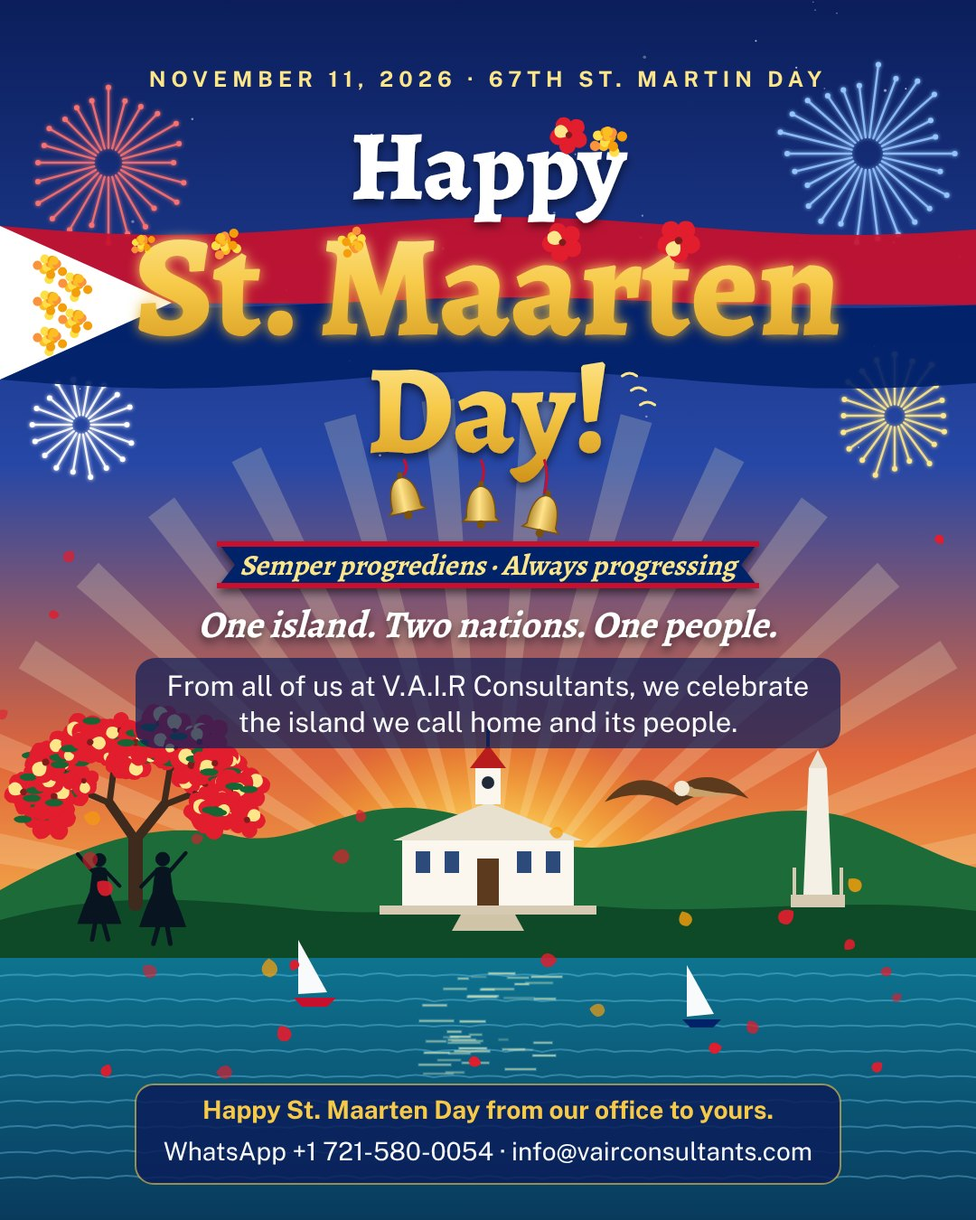
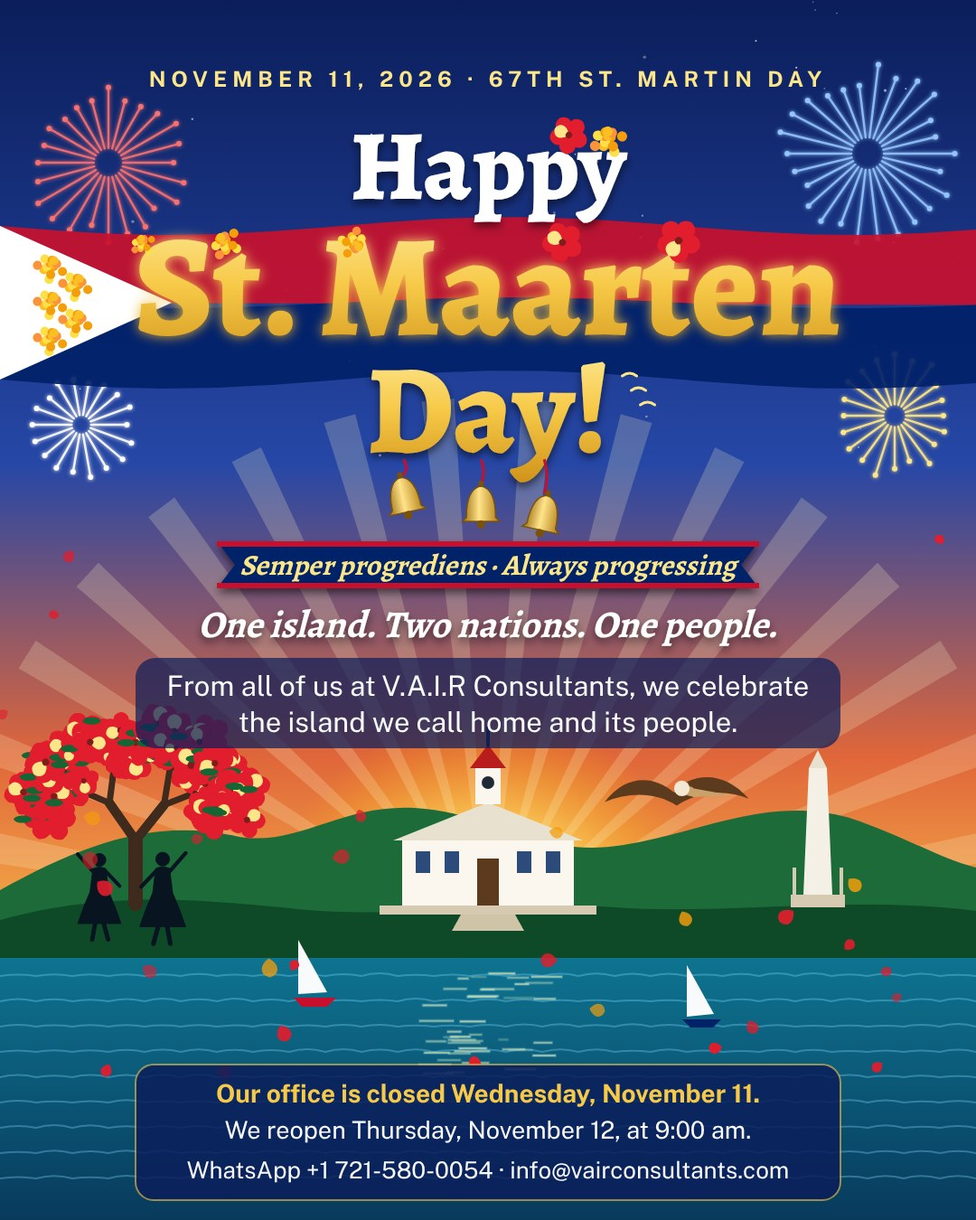
VAIR Website | St. Maarten Day (Nov 11): office closed notice - poster plaque and post text (reopens Thursday Nov 12, 9:00 am)
Claude-Session: https://claude.ai/code/session_01P9czSjwZrzrphQHwvYxGw8

Changed region(s): [[0.1222, 0.8711, 0.8861, 0.9956]]

diff --git a/about/index.html b/about/index.html
@@ -1001,8 +1001,8 @@ const UPLOAD_LINK = "";
 const POSTS = [
   { date:"2026-11-09", tag:"Tip", title:"Got a reminder from the Receiver? You have 14 days",
     text:"When an income tax, profit tax or land tax assessment is not paid by its due date, the Receiver sends a reminder (aanmaning). The reminder gives you fourteen days to pay. If you do not pay or agree a payment arrangement in that time, the Receiver moves to forced collection with a writ (dwangschrift), and the costs of collection are added to what you owe.\n\nOnce the last installment of an assessment has fallen due, interest of one half percent is charged for every month that has started. When you pay, the money goes first to the collection costs, and only then to the oldest open assessment.\n\nFiling an objection does not stop the payment. The tax is still due while the objection is being decided.\n\nIf special circumstances beyond your control mean you cannot pay on time, you can ask the Receiver for a deferral or easier payment terms. An arrangement is given in writing. For profit tax, a deferral is never longer than four months.\n\nReceived a reminder or an assessment you do not agree with? Contact our office at +1 721-580-0054 or info@vairconsultants.com." },
-  { date:"2026-11-11", tag:"Office news", title:"Happy St. Maarten Day from VAIR Consultants", image:"/img/st-maarten-day-2026.jpg",
-    text:"Happy St. Maarten Day! Semper progrediens, always progressing. One island, two nations, one people.\n\nFrom all of us at V.A.I.R Consultants, we celebrate the island we call home and its people. Happy St. Maarten Day from our office to yours.\n\nWhatsApp +1 721-580-0054 or email info@vairconsultants.com." },
+  { date:"2026-11-11", tag:"Office news", title:"Happy St. Maarten Day! Our office is closed Wednesday, November 11", image:"/img/st-maarten-day-2026.jpg",
+    text:"Happy St. Maarten Day! Semper progrediens, always progressing. One island, two nations, one people.\n\nFrom all of us at V.A.I.R Consultants, we celebrate the island we call home and its people.\n\nOur office is closed on Wednesday, November 11, for St. Maarten Day. We reopen on Thursday, November 12, at 9:00 am. Messages sent by WhatsApp to +1 721-580-0054 or by email to info@vairconsultants.com are answered when we reopen." },
   { date:"2026-11-13", tag:"Tip", title:"Disagree with a tax assessment? You have two months to object",
     text:"If you think an assessment from the Tax Office is wrong, you can file an objection (bezwaarschrift) with the Inspector. It must be in writing, give your reasons, and reach the Inspector within two months of the date printed on the assessment. The same two months apply to a decision of the Inspector that can be objected to, counted from the date of the copy you were sent.\n\nThe Inspector notes the date your objection was received and sends you a receipt with that date. Keep it. If you ask for it in your objection, you are heard before the Inspector decides.\n\nThe Inspector should decide within nine months. If the decision goes against you, you can appeal to the Court within two months of the date of the decision.\n\nFiling an objection does not stop the payment. The assessment is still paid on time while the objection is being decided.\n\nReceived an assessment you do not agree with? Bring it to us early, with your filing for that period. Contact our office at +1 721-580-0054 or info@vairconsultants.com." },
   { date:"2026-11-02", tag:"Deadline", due:"2026-11-14", dueText:"before November 15", title:"Renting rooms to visitors? October's room tax is due before November 15",

diff --git a/bookkeeping-payroll-tax-filing/index.html b/bookkeeping-payroll-tax-filing/index.html
@@ -1001,8 +1001,8 @@ const UPLOAD_LINK = "";
 const POSTS = [
   { date:"2026-11-09", tag:"Tip", title:"Got a reminder from the Receiver? You have 14 days",
     text:"When an income tax, profit tax or land tax assessment is not paid by its due date, the Receiver sends a reminder (aanmaning). The reminder gives you fourteen days to pay. If you do not pay or agree a payment arrangement in that time, the Receiver moves to forced collection with a writ (dwangschrift), and the costs of collection are added to what you owe.\n\nOnce the last installment of an assessment has fallen due, interest of one half percent is charged for every month that has started. When you pay, the money goes first to the collection costs, and only then to the oldest open assessment.\n\nFiling an objection does not stop the payment. The tax is still due while the objection is being decided.\n\nIf special circumstances beyond your control mean you cannot pay on time, you can ask the Receiver for a deferral or easier payment terms. An arrangement is given in writing. For profit tax, a deferral is never longer than four months.\n\nReceived a reminder or an assessment you do not agree with? Contact our office at +1 721-580-0054 or info@vairconsultants.com." },
-  { date:"2026-11-11", tag:"Office news", title:"Happy St. Maarten Day from VAIR Consultants", image:"/img/st-maarten-day-2026.jpg",
-    text:"Happy St. Maarten Day! Semper progrediens, always progressing. One island, two nations, one people.\n\nFrom all of us at V.A.I.R Consultants, we celebrate the island we call home and its people. Happy St. Maarten Day from our office to yours.\n\nWhatsApp +1 721-580-0054 or email info@vairconsultants.com." },
+  { date:"2026-11-11", tag:"Office news", title:"Happy St. Maarten Day! Our office is closed Wednesday, November 11", image:"/img/st-maarten-day-2026.jpg",
+    text:"Happy St. Maarten Day! Semper progrediens, always progressing. One island, two nations, one people.\n\nFrom all of us at V.A.I.R Consultants, we celebrate the island we call home and its people.\n\nOur office is closed on Wednesday, November 11, for St. Maarten Day. We reopen on Thursday, November 12, at 9:00 am. Messages sent by WhatsApp to +1 721-580-0054 or by email to info@vairconsultants.com are answered when we reopen." },
   { date:"2026-11-13", tag:"Tip", title:"Disagree with a tax assessment? You have two months to object",
     text:"If you think an assessment from the Tax Office is wrong, you can file an objection (bezwaarschrift) with the Inspector. It must be in writing, give your reasons, and reach the Inspector within two months of the date printed on the assessment. The same two months apply to a decision of the Inspector that can be objected to, counted from the date of the copy you were sent.\n\nThe Inspector notes the date your objection was received and sends you a receipt with that date. Keep it. If you ask for it in your objection, you are heard before the Inspector decides.\n\nThe Inspector should decide within nine months. If the decision goes against you, you can appeal to the Court within two months of the date of the decision.\n\nFiling an objection does not stop the payment. The assessment is still paid on time while the objection is being decided.\n\nReceived an assessment you do not agree with? Bring it to us early, with your filing for that period. Contact our office at +1 721-580-0054 or info@vairconsultants.com." },
   { date:"2026-11-02", tag:"Deadline", due:"2026-11-14", dueText:"before November 15", title:"Renting rooms to visitors? October's room tax is due before November 15",

diff --git a/building-permits-government-liaison/index.html b/building-permits-government-liaison/index.html
@@ -1001,8 +1001,8 @@ const UPLOAD_LINK = "";
 const POSTS = [
   { date:"2026-11-09", tag:"Tip", title:"Got a reminder from the Receiver? You have 14 days",
     text:"When an income tax, profit tax or land tax assessment is not paid by its due date, the Receiver sends a reminder (aanmaning). The reminder gives you fourteen days to pay. If you do not pay or agree a payment arrangement in that time, the Receiver moves to forced collection with a writ (dwangschrift), and the costs of collection are added to what you owe.\n\nOnce the last installment of an assessment has fallen due, interest of one half percent is charged for every month that has started. When you pay, the money goes first to the collection costs, and only then to the oldest open assessment.\n\nFiling an objection does not stop the payment. The tax is still due while the objection is being decided.\n\nIf special circumstances beyond your control mean you cannot pay on time, you can ask the Receiver for a deferral or easier payment terms. An arrangement is given in writing. For profit tax, a deferral is never longer than four months.\n\nReceived a reminder or an assessment you do not agree with? Contact our office at +1 721-580-0054 or info@vairconsultants.com." },
-  { date:"2026-11-11", tag:"Office news", title:"Happy St. Maarten Day from VAIR Consultants", image:"/img/st-maarten-day-2026.jpg",
-    text:"Happy St. Maarten Day! Semper progrediens, always progressing. One island, two nations, one people.\n\nFrom all of us at V.A.I.R Consultants, we celebrate the island we call home and its people. Happy St. Maarten Day from our office to yours.\n\nWhatsApp +1 721-580-0054 or email info@vairconsultants.com." },
+  { date:"2026-11-11", tag:"Office news", title:"Happy St. Maarten Day! Our office is closed Wednesday, November 11", image:"/img/st-maarten-day-2026.jpg",
+    text:"Happy St. Maarten Day! Semper progrediens, always progressing. One island, two nations, one people.\n\nFrom all of us at V.A.I.R Consultants, we celebrate the island we call home and its people.\n\nOur office is closed on Wednesday, November 11, for St. Maarten Day. We reopen on Thursday, November 12, at 9:00 am. Messages sent by WhatsApp to +1 721-580-0054 or by email to info@vairconsultants.com are answered when we reopen." },
   { date:"2026-11-13", tag:"Tip", title:"Disagree with a tax assessment? You have two months to object",
     text:"If you think an assessment from the Tax Office is wrong, you can file an objection (bezwaarschrift) with the Inspector. It must be in writing, give your reasons, and reach the Inspector within two months of the date printed on the assessment. The same two months apply to a decision of the Inspector that can be objected to, counted from the date of the copy you were sent.\n\nThe Inspector notes the date your objection was received and sends you a receipt with that date. Keep it. If you ask for it in your objection, you are heard before the Inspector decides.\n\nThe Inspector should decide within nine months. If the decision goes against you, you can appeal to the Court within two months of the date of the decision.\n\nFiling an objection does not stop the payment. The assessment is still paid on time while the objection is being decided.\n\nReceived an assessment you do not agree with? Bring it to us early, with your filing for that period. Contact our office at +1 721-580-0054 or info@vairconsultants.com." },
   { date:"2026-11-02", tag:"Deadline", due:"2026-11-14", dueText:"before November 15", title:"Renting rooms to visitors? October's room tax is due before November 15",

diff --git a/business-plans-tenders/index.html b/business-plans-tenders/index.html
@@ -1001,8 +1001,8 @@ const UPLOAD_LINK = "";
 const POSTS = [
   { date:"2026-11-09", tag:"Tip", title:"Got a reminder from the Receiver? You have 14 days",
     text:"When an income tax, profit tax or land tax assessment is not paid by its due date, the Receiver sends a reminder (aanmaning). The reminder gives you fourteen days to pay. If you do not pay or agree a payment arrangement in that time, the Receiver moves to forced collection with a writ (dwangschrift), and the costs of collection are added to what you owe.\n\nOnce the last installment of an assessment has fallen due, interest of one half percent is charged for every month that has started. When you pay, the money goes first to the collection costs, and only then to the oldest open assessment.\n\nFiling an objection does not stop the payment. The tax is still due while the objection is being decided.\n\nIf special circumstances beyond your control mean you cannot pay on time, you can ask the Receiver for a deferral or easier payment terms. An arrangement is given in writing. For profit tax, a deferral is never longer than four months.\n\nReceived a reminder or an assessment you do not agree with? Contact our office at +1 721-580-0054 or info@vairconsultants.com." },
-  { date:"2026-11-11", tag:"Office news", title:"Happy St. Maarten Day from VAIR Consultants", image:"/img/st-maarten-day-2026.jpg",
-    text:"Happy St. Maarten Day! Semper progrediens, always progressing. One island, two nations, one people.\n\nFrom all of us at V.A.I.R Consultants, we celebrate the island we call home and its people. Happy St. Maarten Day from our office to yours.\n\nWhatsApp +1 721-580-0054 or email info@vairconsultants.com." },
+  { date:"2026-11-11", tag:"Office news", title:"Happy St. Maarten Day! Our office is closed Wednesday, November 11", image:"/img/st-maarten-day-2026.jpg",
+    text:"Happy St. Maarten Day! Semper progrediens, always progressing. One island, two nations, one people.\n\nFrom all of us at V.A.I.R Consultants, we celebrate the island we call home and its people.\n\nOur office is closed on Wednesday, November 11, for St. Maarten Day. We reopen on Thursday, November 12, at 9:00 am. Messages sent by WhatsApp to +1 721-580-0054 or by email to info@vairconsultants.com are answered when we reopen." },
   { date:"2026-11-13", tag:"Tip", title:"Disagree with a tax assessment? You have two months to object",
     text:"If you think an assessment from the Tax Office is wrong, you can file an objection (bezwaarschrift) with the Inspector. It must be in writing, give your reasons, and reach the Inspector within two months of the date printed on the assessment. The same two months apply to a decision of the Inspector that can be objected to, counted from the date of the copy you were sent.\n\nThe Inspector notes the date your objection was received and sends you a receipt with that date. Keep it. If you ask for it in your objection, you are heard before the Inspector decides.\n\nThe Inspector should decide within nine months. If the decision goes against you, you can appeal to the Court within two months of the date of the decision.\n\nFiling an objection does not stop the payment. The assessment is still paid on time while the objection is being decided.\n\nReceived an assessment you do not agree with? Bring it to us early, with your filing for that period. Contact our office at +1 721-580-0054 or info@vairconsultants.com." },
   { date:"2026-11-02", tag:"Deadline", due:"2026-11-14", dueText:"before November 15", title:"Renting rooms to visitors? October's room tax is due before November 15",

diff --git a/client-portal/index.html b/client-portal/index.html
@@ -1001,8 +1001,8 @@ const UPLOAD_LINK = "";
 const POSTS = [
   { date:"2026-11-09", tag:"Tip", title:"Got a reminder from the Receiver? You have 14 days",
     text:"When an income tax, profit tax or land tax assessment is not paid by its due date, the Receiver sends a reminder (aanmaning). The reminder gives you fourteen days to pay. If you do not pay or agree a payment arrangement in that time, the Receiver moves to forced collection with a writ (dwangschrift), and the costs of collection are added to what you owe.\n\nOnce the last installment of an assessment has fallen due, interest of one half percent is charged for every month that has started. When you pay, the money goes first to the collection costs, and only then to the oldest open assessment.\n\nFiling an objection does not stop the payment. The tax is still due while the objection is being decided.\n\nIf special circumstances beyond your control mean you cannot pay on time, you can ask the Receiver for a deferral or easier payment terms. An arrangement is given in writing. For profit tax, a deferral is never longer than four months.\n\nReceived a reminder or an assessment you do not agree with? Contact our office at +1 721-580-0054 or info@vairconsultants.com." },
-  { date:"2026-11-11", tag:"Office news", title:"Happy St. Maarten Day from VAIR Consultants", image:"/img/st-maarten-day-2026.jpg",
-    text:"Happy St. Maarten Day! Semper progrediens, always progressing. One island, two nations, one people.\n\nFrom all of us at V.A.I.R Consultants, we celebrate the island we call home and its people. Happy St. Maarten Day from our office to yours.\n\nWhatsApp +1 721-580-0054 or email info@vairconsultants.com." },
+  { date:"2026-11-11", tag:"Office news", title:"Happy St. Maarten Day! Our office is closed Wednesday, November 11", image:"/img/st-maarten-day-2026.jpg",
+    text:"Happy St. Maarten Day! Semper progrediens, always progressing. One island, two nations, one people.\n\nFrom all of us at V.A.I.R Consultants, we celebrate the island we call home and its people.\n\nOur office is closed on Wednesday, November 11, for St. Maarten Day. We reopen on Thursday, November 12, at 9:00 am. Messages sent by WhatsApp to +1 721-580-0054 or by email to info@vairconsultants.com are answered when we reopen." },
   { date:"2026-11-13", tag:"Tip", title:"Disagree with a tax assessment? You have two months to object",
     text:"If you think an assessment from the Tax Office is wrong, you can file an objection (bezwaarschrift) with the Inspector. It must be in writing, give your reasons, and reach the Inspector within two months of the date printed on the assessment. The same two months apply to a decision of the Inspector that can be objected to, counted from the date of the copy you were sent.\n\nThe Inspector notes the date your objection was received and sends you a receipt with that date. Keep it. If you ask for it in your objection, you are heard before the Inspector decides.\n\nThe Inspector should decide within nine months. If the decision goes against you, you can appeal to the Court within two months of the date of the decision.\n\nFiling an objection does not stop the payment. The assessment is still paid on time while the objection is being decided.\n\nReceived an assessment you do not agree with? Bring it to us early, with your filing for that period. Contact our office at +1 721-580-0054 or info@vairconsultants.com." },
   { date:"2026-11-02", tag:"Deadline", due:"2026-11-14", dueText:"before November 15", title:"Renting rooms to visitors? October's room tax is due before November 15",

diff --git a/company-formation-sint-maarten/index.html b/company-formation-sint-maarten/index.html
@@ -1001,8 +1001,8 @@ const UPLOAD_LINK = "";
 const POSTS = [
   { date:"2026-11-09", tag:"Tip", title:"Got a reminder from the Receiver? You have 14 days",
     text:"When an income tax, profit tax or land tax assessment is not paid by its due date, the Receiver sends a reminder (aanmaning). The reminder gives you fourteen days to pay. If you do not pay or agree a payment arrangement in that time, the Receiver moves to forced collection with a writ (dwangschrift), and the costs of collection are added to what you owe.\n\nOnce the last installment of an assessment has fallen due, interest of one half percent is charged for every month that has started. When you pay, the money goes first to the collection costs, and only then to the oldest open assessment.\n\nFiling an objection does not stop the payment. The tax is still due while the objection is being decided.\n\nIf special circumstances beyond your control mean you cannot pay on time, you can ask the Receiver for a deferral or easier payment terms. An arrangement is given in writing. For profit tax, a deferral is never longer than four months.\n\nReceived a reminder or an assessment you do not agree with? Contact our office at +1 721-580-0054 or info@vairconsultants.com." },
-  { date:"2026-11-11", tag:"Office news", title:"Happy St. Maarten Day from VAIR Consultants", image:"/img/st-maarten-day-2026.jpg",
-    text:"Happy St. Maarten Day! Semper progrediens, always progressing. One island, two nations, one people.\n\nFrom all of us at V.A.I.R Consultants, we celebrate the island we call home and its people. Happy St. Maarten Day from our office to yours.\n\nWhatsApp +1 721-580-0054 or email info@vairconsultants.com." },
+  { date:"2026-11-11", tag:"Office news", title:"Happy St. Maarten Day! Our office is closed Wednesday, November 11", image:"/img/st-maarten-day-2026.jpg",
+    text:"Happy St. Maarten Day! Semper progrediens, always progressing. One island, two nations, one people.\n\nFrom all of us at V.A.I.R Consultants, we celebrate the island we call home and its people.\n\nOur office is closed on Wednesday, November 11, for St. Maarten Day. We reopen on Thursday, November 12, at 9:00 am. Messages sent by WhatsApp to +1 721-580-0054 or by email to info@vairconsultants.com are answered when we reopen." },
   { date:"2026-11-13", tag:"Tip", title:"Disagree with a tax assessment? You have two months to object",
     text:"If you think an assessment from the Tax Office is wrong, you can file an objection (bezwaarschrift) with the Inspector. It must be in writing, give your reasons, and reach the Inspector within two months of the date printed on the assessment. The same two months apply to a decision of the Inspector that can be objected to, counted from the date of the copy you were sent.\n\nThe Inspector notes the date your objection was received and sends you a receipt with that date. Keep it. If you ask for it in your objection, you are heard before the Inspector decides.\n\nThe Inspector should decide within nine months. If the decision goes against you, you can appeal to the Court within two months of the date of the decision.\n\nFiling an objection does not stop the payment. The assessment is still paid on time while the objection is being decided.\n\nReceived an assessment you do not agree with? Bring it to us early, with your filing for that period. Contact our office at +1 721-580-0054 or info@vairconsultants.com." },
   { date:"2026-11-02", tag:"Deadline", due:"2026-11-14", dueText:"before November 15", title:"Renting rooms to visitors? October's room tax is due before November 15",

diff --git a/consultations/index.html b/consultations/index.html
@@ -1001,8 +1001,8 @@ const UPLOAD_LINK = "";
 const POSTS = [
   { date:"2026-11-09", tag:"Tip", title:"Got a reminder from the Receiver? You have 14 days",
     text:"When an income tax, profit tax or land tax assessment is not paid by its due date, the Receiver sends a reminder (aanmaning). The reminder gives you fourteen days to pay. If you do not pay or agree a payment arrangement in that time, the Receiver moves to forced collection with a writ (dwangschrift), and the costs of collection are added to what you owe.\n\nOnce the last installment of an assessment has fallen due, interest of one half percent is charged for every month that has started. When you pay, the money goes first to the collection costs, and only then to the oldest open assessment.\n\nFiling an objection does not stop the payment. The tax is still due while the objection is being decided.\n\nIf special circumstances beyond your control mean you cannot pay on time, you can ask the Receiver for a deferral or easier payment terms. An arrangement is given in writing. For profit tax, a deferral is never longer than four months.\n\nReceived a reminder or an assessment you do not agree with? Contact our office at +1 721-580-0054 or info@vairconsultants.com." },
-  { date:"2026-11-11", tag:"Office news", title:"Happy St. Maarten Day from VAIR Consultants", image:"/img/st-maarten-day-2026.jpg",
-    text:"Happy St. Maarten Day! Semper progrediens, always progressing. One island, two nations, one people.\n\nFrom all of us at V.A.I.R Consultants, we celebrate the island we call home and its people. Happy St. Maarten Day from our office to yours.\n\nWhatsApp +1 721-580-0054 or email info@vairconsultants.com." },
+  { date:"2026-11-11", tag:"Office news", title:"Happy St. Maarten Day! Our office is closed Wednesday, November 11", image:"/img/st-maarten-day-2026.jpg",
+    text:"Happy St. Maarten Day! Semper progrediens, always progressing. One island, two nations, one people.\n\nFrom all of us at V.A.I.R Consultants, we celebrate the island we call home and its people.\n\nOur office is closed on Wednesday, November 11, for St. Maarten Day. We reopen on Thursday, November 12, at 9:00 am. Messages sent by WhatsApp to +1 721-580-0054 or by email to info@vairconsultants.com are answered when we reopen." },
   { date:"2026-11-13", tag:"Tip", title:"Disagree with a tax assessment? You have two months to object",
     text:"If you think an assessment from the Tax Office is wrong, you can file an objection (bezwaarschrift) with the Inspector. It must be in writing, give your reasons, and reach the Inspector within two months of the date printed on the assessment. The same two months apply to a decision of the Inspector that can be objected to, counted from the date of the copy you were sent.\n\nThe Inspector notes the date your objection was received and sends you a receipt with that date. Keep it. If you ask for it in your objection, you are heard before the Inspector decides.\n\nThe Inspector should decide within nine months. If the decision goes against you, you can appeal to the Court within two months of the date of the decision.\n\nFiling an objection does not stop the payment. The assessment is still paid on time while the objection is being decided.\n\nReceived an assessment you do not agree with? Bring it to us early, with your filing for that period. Contact our office at +1 721-580-0054 or info@vairconsultants.com." },
   { date:"2026-11-02", tag:"Deadline", due:"2026-11-14", dueText:"before November 15", title:"Renting rooms to visitors? October's room tax is due before November 15",

diff --git a/contact/index.html b/contact/index.html
@@ -1001,8 +1001,8 @@ const UPLOAD_LINK = "";
 const POSTS = [
   { date:"2026-11-09", tag:"Tip", title:"Got a reminder from the Receiver? You have 14 days",
     text:"When an income tax, profit tax or land tax assessment is not paid by its due date, the Receiver sends a reminder (aanmaning). The reminder gives you fourteen days to pay. If you do not pay or agree a payment arrangement in that time, the Receiver moves to forced collection with a writ (dwangschrift), and the costs of collection are added to what you owe.\n\nOnce the last installment of an assessment has fallen due, interest of one half percent is charged for every month that has started. When you pay, the money goes first to the collection costs, and only then to the oldest open assessment.\n\nFiling an objection does not stop the payment. The tax is still due while the objection is being decided.\n\nIf special circumstances beyond your control mean you cannot pay on time, you can ask the Receiver for a deferral or easier payment terms. An arrangement is given in writing. For profit tax, a deferral is never longer than four months.\n\nReceived a reminder or an assessment you do not agree with? Contact our office at +1 721-580-0054 or info@vairconsultants.com." },
-  { date:"2026-11-11", tag:"Office news", title:"Happy St. Maarten Day from VAIR Consultants", image:"/img/st-maarten-day-2026.jpg",
-    text:"Happy St. Maarten Day! Semper progrediens, always progressing. One island, two nations, one people.\n\nFrom all of us at V.A.I.R Consultants, we celebrate the island we call home and its people. Happy St. Maarten Day from our office to yours.\n\nWhatsApp +1 721-580-0054 or email info@vairconsultants.com." },
+  { date:"2026-11-11", tag:"Office news", title:"Happy St. Maarten Day! Our office is closed Wednesday, November 11", image:"/img/st-maarten-day-2026.jpg",
+    text:"Happy St. Maarten Day! Semper progrediens, always progressing. One island, two nations, one people.\n\nFrom all of us at V.A.I.R Consultants, we celebrate the island we call home and its people.\n\nOur office is closed on Wednesday, November 11, for St. Maarten Day. We reopen on Thursday, November 12, at 9:00 am. Messages sent by WhatsApp to +1 721-580-0054 or by email to info@vairconsultants.com are answered when we reopen." },
   { date:"2026-11-13", tag:"Tip", title:"Disagree with a tax assessment? You have two months to object",
     text:"If you think an assessment from the Tax Office is wrong, you can file an objection (bezwaarschrift) with the Inspector. It must be in writing, give your reasons, and reach the Inspector within two months of the date printed on the assessment. The same two months apply to a decision of the Inspector that can be objected to, counted from the date of the copy you were sent.\n\nThe Inspector notes the date your objection was received and sends you a receipt with that date. Keep it. If you ask for it in your objection, you are heard before the Inspector decides.\n\nThe Inspector should decide within nine months. If the decision goes against you, you can appeal to the Court within two months of the date of the decision.\n\nFiling an objection does not stop the payment. The assessment is still paid on time while the objection is being decided.\n\nReceived an assessment you do not agree with? Bring it to us early, with your filing for that period. Contact our office at +1 721-580-0054 or info@vairconsultants.com." },
   { date:"2026-11-02", tag:"Deadline", due:"2026-11-14", dueText:"before November 15", title:"Renting rooms to visitors? October's room tax is due before November 15",

diff --git a/index.html b/index.html
@@ -1001,8 +1001,8 @@ const UPLOAD_LINK = "";
 const POSTS = [
   { date:"2026-11-09", tag:"Tip", title:"Got a reminder from the Receiver? You have 14 days",
     text:"When an income tax, profit tax or land tax assessment is not paid by its due date, the Receiver sends a reminder (aanmaning). The reminder gives you fourteen days to pay. If you do not pay or agree a payment arrangement in that time, the Receiver moves to forced collection with a writ (dwangschrift), and the costs of collection are added to what you owe.\n\nOnce the last installment of an assessment has fallen due, interest of one half percent is charged for every month that has started. When you pay, the money goes first to the collection costs, and only then to the oldest open assessment.\n\nFiling an objection does not stop the payment. The tax is still due while the objection is being decided.\n\nIf special circumstances beyond your control mean you cannot pay on time, you can ask the Receiver for a deferral or easier payment terms. An arrangement is given in writing. For profit tax, a deferral is never longer than four months.\n\nReceived a reminder or an assessment you do not agree with? Contact our office at +1 721-580-0054 or info@vairconsultants.com." },
-  { date:"2026-11-11", tag:"Office news", title:"Happy St. Maarten Day from VAIR Consultants", image:"/img/st-maarten-day-2026.jpg",
-    text:"Happy St. Maarten Day! Semper progrediens, always progressing. One island, two nations, one people.\n\nFrom all of us at V.A.I.R Consultants, we celebrate the island we call home and its people. Happy St. Maarten Day from our office to yours.\n\nWhatsApp +1 721-580-0054 or email info@vairconsultants.com." },
+  { date:"2026-11-11", tag:"Office news", title:"Happy St. Maarten Day! Our office is closed Wednesday, November 11", image:"/img/st-maarten-day-2026.jpg",
+    text:"Happy St. Maarten Day! Semper progrediens, always progressing. One island, two nations, one people.\n\nFrom all of us at V.A.I.R Consultants, we celebrate the island we call home and its people.\n\nOur office is closed on Wednesday, November 11, for St. Maarten Day. We reopen on Thursday, November 12, at 9:00 am. Messages sent by WhatsApp to +1 721-580-0054 or by email to info@vairconsultants.com are answered when we reopen." },
   { date:"2026-11-13", tag:"Tip", title:"Disagree with a tax assessment? You have two months to object",
     text:"If you think an assessment from the Tax Office is wrong, you can file an objection (bezwaarschrift) with the Inspector. It must be in writing, give your reasons, and reach the Inspector within two months of the date printed on the assessment. The same two months apply to a decision of the Inspector that can be objected to, counted from the date of the copy you were sent.\n\nThe Inspector notes the date your objection was received and sends you a receipt with that date. Keep it. If you ask for it in your objection, you are heard before the Inspector decides.\n\nThe Inspector should decide within nine months. If the decision goes against you, you can appeal to the Court within two months of the date of the decision.\n\nFiling an objection does not stop the payment. The assessment is still paid on time while the objection is being decided.\n\nReceived an assessment you do not agree with? Bring it to us early, with your filing for that period. Contact our office at +1 721-580-0054 or info@vairconsultants.com." },
   { date:"2026-11-02", tag:"Deadline", due:"2026-11-14", dueText:"before November 15", title:"Renting rooms to visitors? October's room tax is due before November 15",

diff --git a/news/2026-09-24-sending-documents-name-each-file/index.html b/news/2026-09-24-sending-documents-name-each-file/index.html
@@ -1001,8 +1001,8 @@ const UPLOAD_LINK = "";
 const POSTS = [
   { date:"2026-11-09", tag:"Tip", title:"Got a reminder from the Receiver? You have 14 days",
     text:"When an income tax, profit tax or land tax assessment is not paid by its due date, the Receiver sends a reminder (aanmaning). The reminder gives you fourteen days to pay. If you do not pay or agree a payment arrangement in that time, the Receiver moves to forced collection with a writ (dwangschrift), and the costs of collection are added to what you owe.\n\nOnce the last installment of an assessment has fallen due, interest of one half percent is charged for every month that has started. When you pay, the money goes first to the collection costs, and only then to the oldest open assessment.\n\nFiling an objection does not stop the payment. The tax is still due while the objection is being decided.\n\nIf special circumstances beyond your control mean you cannot pay on time, you can ask the Receiver for a deferral or easier payment terms. An arrangement is given in writing. For profit tax, a deferral is never longer than four months.\n\nReceived a reminder or an assessment you do not agree with? Contact our office at +1 721-580-0054 or info@vairconsultants.com." },
-  { date:"2026-11-11", tag:"Office news", title:"Happy St. Maarten Day from VAIR Consultants", image:"/img/st-maarten-day-2026.jpg",
-    text:"Happy St. Maarten Day! Semper progrediens, always progressing. One island, two nations, one people.\n\nFrom all of us at V.A.I.R Consultants, we celebrate the island we call home and its people. Happy St. Maarten Day from our office to yours.\n\nWhatsApp +1 721-580-0054 or email info@vairconsultants.com." },
+  { date:"2026-11-11", tag:"Office news", title:"Happy St. Maarten Day! Our office is closed Wednesday, November 11", image:"/img/st-maarten-day-2026.jpg",
+    text:"Happy St. Maarten Day! Semper progrediens, always progressing. One island, two nations, one people.\n\nFrom all of us at V.A.I.R Consultants, we celebrate the island we call home and its people.\n\nOur office is closed on Wednesday, November 11, for St. Maarten Day. We reopen on Thursday, November 12, at 9:00 am. Messages sent by WhatsApp to +1 721-580-0054 or by email to info@vairconsultants.com are answered when we reopen." },
   { date:"2026-11-13", tag:"Tip", title:"Disagree with a tax assessment? You have two months to object",
     text:"If you think an assessment from the Tax Office is wrong, you can file an objection (bezwaarschrift) with the Inspector. It must be in writing, give your reasons, and reach the Inspector within two months of the date printed on the assessment. The same two months apply to a decision of the Inspector that can be objected to, counted from the date of the copy you were sent.\n\nThe Inspector notes the date your objection was received and sends you a receipt with that date. Keep it. If you ask for it in your objection, you are heard before the Inspector decides.\n\nThe Inspector should decide within nine months. If the decision goes against you, you can appeal to the Court within two months of the date of the decision.\n\nFiling an objection does not stop the payment. The assessment is still paid on time while the objection is being decided.\n\nReceived an assessment you do not agree with? Bring it to us early, with your filing for that period. Contact our office at +1 721-580-0054 or info@vairconsultants.com." },
   { date:"2026-11-02", tag:"Deadline", due:"2026-11-14", dueText:"before November 15", title:"Renting rooms to visitors? October's room tax is due before November 15",

diff --git a/news/2026-09-24-tell-us-when-your-details-change/index.html b/news/2026-09-24-tell-us-when-your-details-change/index.html
@@ -1001,8 +1001,8 @@ const UPLOAD_LINK = "";
 const POSTS = [
   { date:"2026-11-09", tag:"Tip", title:"Got a reminder from the Receiver? You have 14 days",
     text:"When an income tax, profit tax or land tax assessment is not paid by its due date, the Receiver sends a reminder (aanmaning). The reminder gives you fourteen days to pay. If you do not pay or agree a payment arrangement in that time, the Receiver moves to forced collection with a writ (dwangschrift), and the costs of collection are added to what you owe.\n\nOnce the last installment of an assessment has fallen due, interest of one half percent is charged for every month that has started. When you pay, the money goes first to the collection costs, and only then to the oldest open assessment.\n\nFiling an objection does not stop the payment. The tax is still due while the objection is being decided.\n\nIf special circumstances beyond your control mean you cannot pay on time, you can ask the Receiver for a deferral or easier payment terms. An arrangement is given in writing. For profit tax, a deferral is never longer than four months.\n\nReceived a reminder or an assessment you do not agree with? Contact our office at +1 721-580-0054 or info@vairconsultants.com." },
-  { date:"2026-11-11", tag:"Office news", title:"Happy St. Maarten Day from VAIR Consultants", image:"/img/st-maarten-day-2026.jpg",
-    text:"Happy St. Maarten Day! Semper progrediens, always progressing. One island, two nations, one people.\n\nFrom all of us at V.A.I.R Consultants, we celebrate the island we call home and its people. Happy St. Maarten Day from our office to yours.\n\nWhatsApp +1 721-580-0054 or email info@vairconsultants.com." },
+  { date:"2026-11-11", tag:"Office news", title:"Happy St. Maarten Day! Our office is closed Wednesday, November 11", image:"/img/st-maarten-day-2026.jpg",
+    text:"Happy St. Maarten Day! Semper progrediens, always progressing. One island, two nations, one people.\n\nFrom all of us at V.A.I.R Consultants, we celebrate the island we call home and its people.\n\nOur office is closed on Wednesday, November 11, for St. Maarten Day. We reopen on Thursday, November 12, at 9:00 am. Messages sent by WhatsApp to +1 721-580-0054 or by email to info@vairconsultants.com are answered when we reopen." },
   { date:"2026-11-13", tag:"Tip", title:"Disagree with a tax assessment? You have two months to object",
     text:"If you think an assessment from the Tax Office is wrong, you can file an objection (bezwaarschrift) with the Inspector. It must be in writing, give your reasons, and reach the Inspector within two months of the date printed on the assessment. The same two months apply to a decision of the Inspector that can be objected to, counted from the date of the copy you were sent.\n\nThe Inspector notes the date your objection was received and sends you a receipt with that date. Keep it. If you ask for it in your objection, you are heard before the Inspector decides.\n\nThe Inspector should decide within nine months. If the decision goes against you, you can appeal to the Court within two months of the date of the decision.\n\nFiling an objection does not stop the payment. The assessment is still paid on time while the objection is being decided.\n\nReceived an assessment you do not agree with? Bring it to us early, with your filing for that period. Contact our office at +1 721-580-0054 or info@vairconsultants.com." },
   { date:"2026-11-02", tag:"Deadline", due:"2026-11-14", dueText:"before November 15", title:"Renting rooms to visitors? October's room tax is due before November 15",

diff --git a/news/2026-09-28-introducing-the-new-vairconsultants-com/index.html b/news/2026-09-28-introducing-the-new-vairconsultants-com/index.html
@@ -1001,8 +1001,8 @@ const UPLOAD_LINK = "";
 const POSTS = [
   { date:"2026-11-09", tag:"Tip", title:"Got a reminder from the Receiver? You have 14 days",
     text:"When an income tax, profit tax or land tax assessment is not paid by its due date, the Receiver sends a reminder (aanmaning). The reminder gives you fourteen days to pay. If you do not pay or agree a payment arrangement in that time, the Receiver moves to forced collection with a writ (dwangschrift), and the costs of collection are added to what you owe.\n\nOnce the last installment of an assessment has fallen due, interest of one half percent is charged for every month that has started. When you pay, the money goes first to the collection costs, and only then to the oldest open assessment.\n\nFiling an objection does not stop the payment. The tax is still due while the objection is being decided.\n\nIf special circumstances beyond your control mean you cannot pay on time, you can ask the Receiver for a deferral or easier payment terms. An arrangement is given in writing. For profit tax, a deferral is never longer than four months.\n\nReceived a reminder or an assessment you do not agree with? Contact our office at +1 721-580-0054 or info@vairconsultants.com." },
-  { date:"2026-11-11", tag:"Office news", title:"Happy St. Maarten Day from VAIR Consultants", image:"/img/st-maarten-day-2026.jpg",
-    text:"Happy St. Maarten Day! Semper progrediens, always progressing. One island, two nations, one people.\n\nFrom all of us at V.A.I.R Consultants, we celebrate the island we call home and its people. Happy St. Maarten Day from our office to yours.\n\nWhatsApp +1 721-580-0054 or email info@vairconsultants.com." },
+  { date:"2026-11-11", tag:"Office news", title:"Happy St. Maarten Day! Our office is closed Wednesday, November 11", image:"/img/st-maarten-day-2026.jpg",
+    text:"Happy St. Maarten Day! Semper progrediens, always progressing. One island, two nations, one people.\n\nFrom all of us at V.A.I.R Consultants, we celebrate the island we call home and its people.\n\nOur office is closed on Wednesday, November 11, for St. Maarten Day. We reopen on Thursday, November 12, at 9:00 am. Messages sent by WhatsApp to +1 721-580-0054 or by email to info@vairconsultants.com are answered when we reopen." },
   { date:"2026-11-13", tag:"Tip", title:"Disagree with a tax assessment? You have two months to object",
     text:"If you think an assessment from the Tax Office is wrong, you can file an objection (bezwaarschrift) with the Inspector. It must be in writing, give your reasons, and reach the Inspector within two months of the date printed on the assessment. The same two months apply to a decision of the Inspector that can be objected to, counted from the date of the copy you were sent.\n\nThe Inspector notes the date your objection was received and sends you a receipt with that date. Keep it. If you ask for it in your objection, you are heard before the Inspector decides.\n\nThe Inspector should decide within nine months. If the decision goes against you, you can appeal to the Court within two months of the date of the decision.\n\nFiling an objection does not stop the payment. The assessment is still paid on time while the objection is being decided.\n\nReceived an assessment you do not agree with? Bring it to us early, with your filing for that period. Contact our office at +1 721-580-0054 or info@vairconsultants.com." },
   { date:"2026-11-02", tag:"Deadline", due:"2026-11-14", dueText:"before November 15", title:"Renting rooms to visitors? October's room tax is due before November 15",
